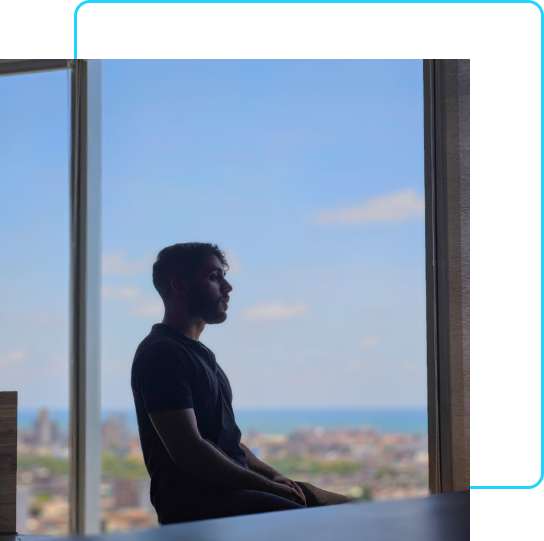
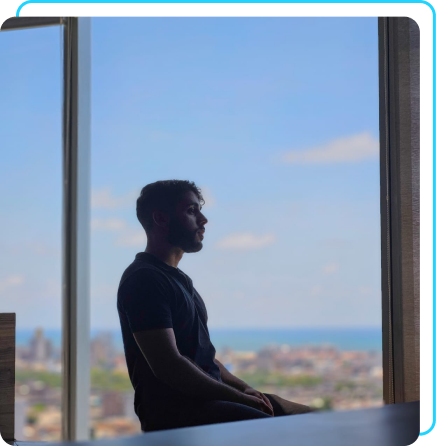
add some responsivity

diff --git a/styles/style.css b/styles/style.css
@@ -27,7 +27,7 @@ strong {
 }
 
 .cabecalho {
-    padding: 2% 0% 0% 10%;
+    padding: 2% 0% 0% 15%;
 }
 
 .cabecalho_menu {
@@ -41,17 +41,19 @@ strong {
     font-weight: 600;
     color: var(--cor-terciaria);
     text-decoration: none;
+    gap: 40px
 }
 
 .apresentacao {
-    padding: 6% 10%;
+    padding: 5% 15%;
     display: flex;
     align-items: center;
     justify-content: space-between;
+    gap: 82px;
 }
 
 .apresentacao__conteudo {
-    width: 615px;
+    width: 50%;
     display: flex;
     flex-direction: column;
     gap: 40px;
@@ -81,12 +83,12 @@ strong {
     font-size: 1.5rem;
 }
 
-.apresentacao__links__link {
+.apresentacao__links__navegacao {
     border: 2px solid var(--cor-terciaria);
     display: flex;
     justify-content: center;
     gap: 16px;
-    width: 380px;
+    width: 50%;
     text-align: center;
     border-radius: 16px;
     font-size: 1.5rem;
@@ -97,8 +99,12 @@ strong {
     font-weight: 600;
 }
 
-.apresentacao__links__link:hover {
+.apresentacao__links__navegacao:hover {
     background-color: var(--cor-hover);
+}
+
+.apresentacao_imagens {
+    width: 50%
 }
 
 .rodape {
@@ -109,4 +115,24 @@ strong {
     font-family: var(--fonte-primaria);
     font-size: 1.5rem;
     font-weight: 400;
+}
+
+/* Versão Mobile */
+
+@media(max-width: 1200px) {
+    .cabecalho {
+        padding: 10% 10% 5% 10%; 
+    }
+
+    .cabecalho_menu {
+        justify-content: center;
+    }
+    
+    .apresentacao{
+        flex-direction: column-reverse;
+    }   
+
+    .apresentacao__conteudo {
+        width: 100%
+    }
 }

diff --git a/index.html b/index.html
@@ -1,6 +1,5 @@
 <!DOCTYPE html>
 <html lang="pt-br">
-
 <head>
     <meta charset="UTF-8">
     <meta name="viewport" content="width=device-width, initial-scale=1.0">
@@ -27,11 +26,11 @@
             
             <div class="apresentacao__links">
             <h2 class="apresentacao__links__subtitulo">Acesse minhas redes:</h2>
-            <a class="apresentacao__links__link" href="https://www.linkedin.com/in/gabriel-luna-1917b4230/">
+            <a class="apresentacao__links__navegacao" href="https://www.linkedin.com/in/gabriel-luna-1917b4230/">
                 <img src="./assets/linkedin.png">
                 Linkedin
             </a>
-            <a class="apresentacao__links__link" href="https://github.com/cgluna">
+            <a class="apresentacao__links__navegacao" href="https://github.com/cgluna">
                 <img src="./assets/github.png">
                 Github
             </a>
@@ -39,7 +38,7 @@
 
         </section>
         
-        <img src="./assets/Foto_portfolio.png" alt="Foto de Gabriel"> 
+        <img class="apresentacao_imagens" src="./assets/Foto_portfolio.png" alt="Foto de Gabriel"> 
     </main>
 
     <footer class="rodape">
